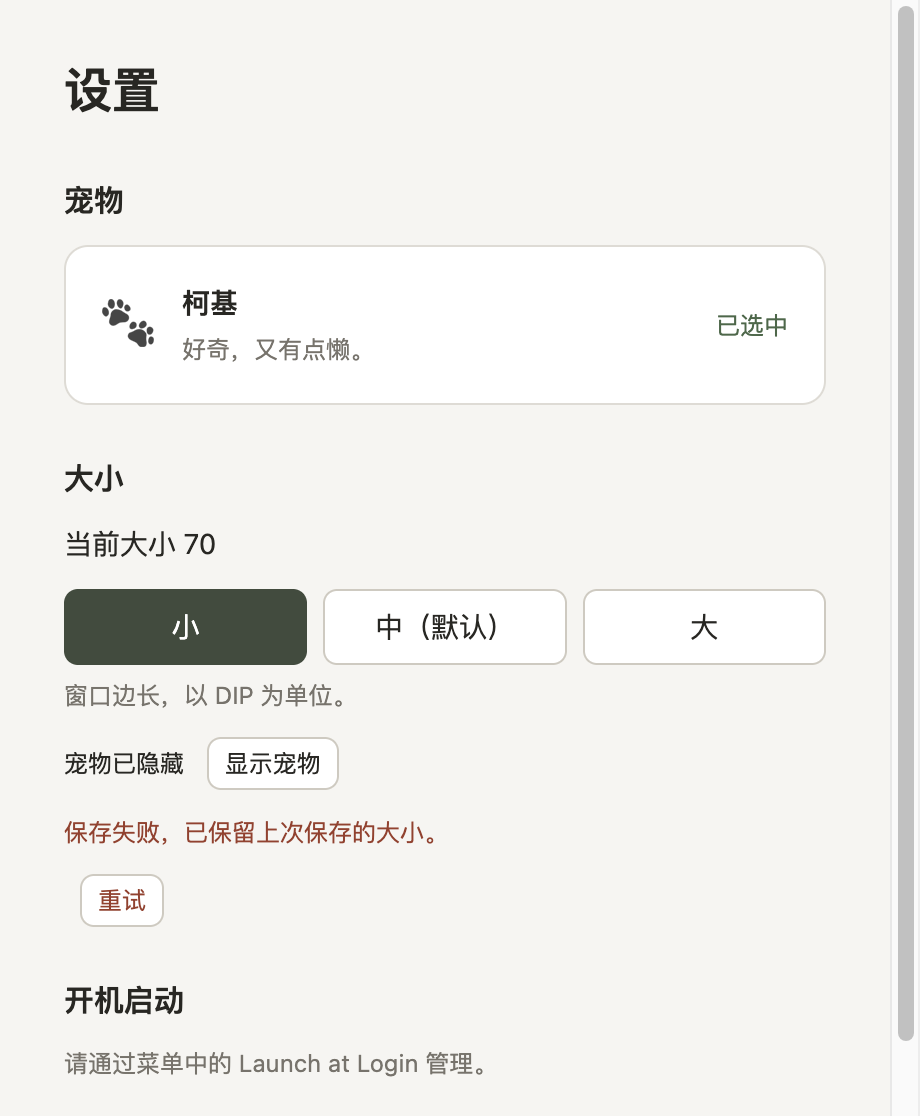
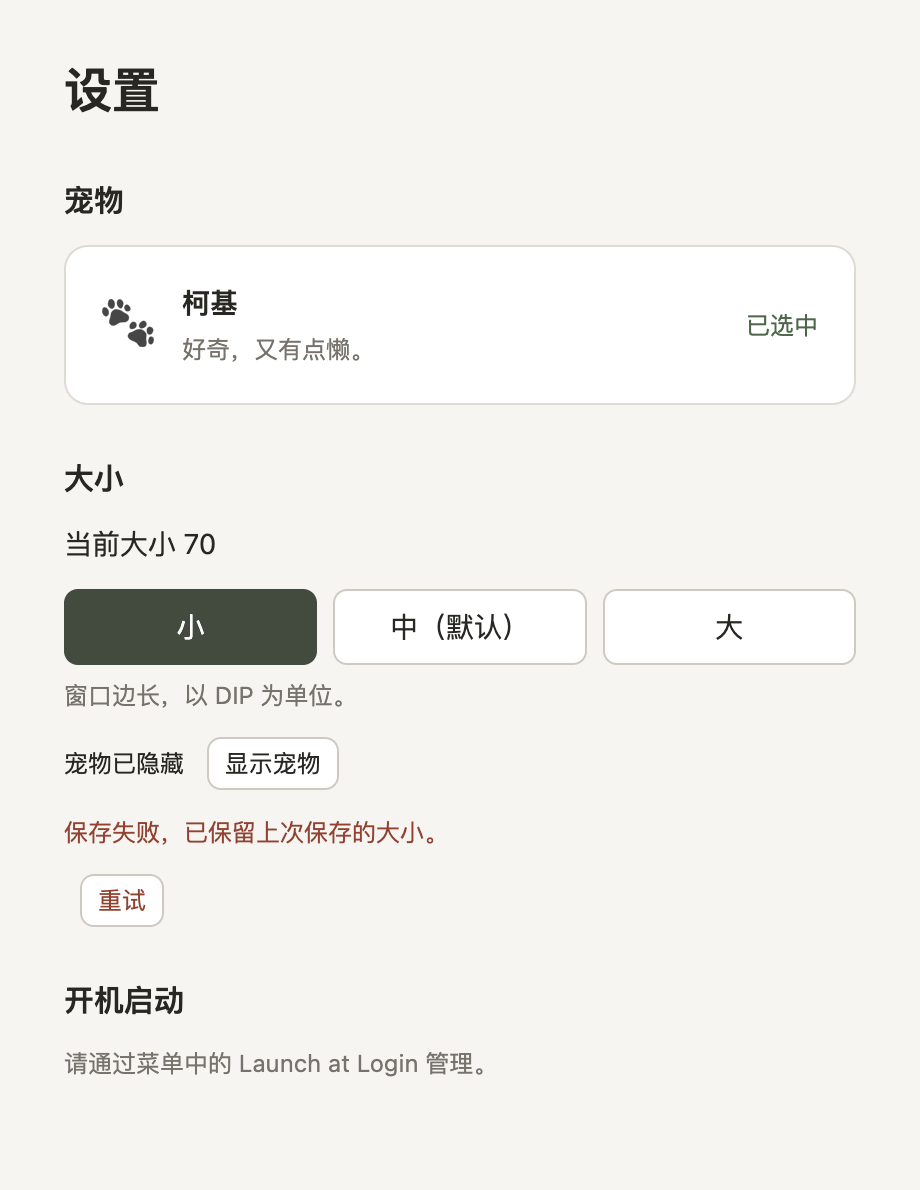
fix: scope settings styles and record app validation evidence

diff --git a/src/settings.css b/src/settings.css
@@ -1,8 +1,8 @@
-html,
-body {
+html[data-page="settings"],
+html[data-page="settings"] body {
   overflow: auto;
 }
-body {
+html[data-page="settings"] body {
   margin: 0;
   background: #f6f5f2;
   color: #282723;
@@ -11,25 +11,25 @@ body {
     BlinkMacSystemFont,
     sans-serif;
 }
-main {
+html[data-page="settings"] main {
   padding: 28px 32px;
 }
-h1 {
+html[data-page="settings"] h1 {
   font-size: 24px;
   margin: 0 0 28px;
 }
-h2 {
+html[data-page="settings"] h2 {
   font-size: 15px;
   margin: 0 0 12px;
 }
-section {
+html[data-page="settings"] section {
   margin-bottom: 26px;
 }
-p {
+html[data-page="settings"] p {
   line-height: 1.5;
   margin: 6px 0 12px;
 }
-.pet-card {
+html[data-page="settings"] .pet-card {
   display: flex;
   align-items: center;
   gap: 14px;
@@ -38,24 +38,24 @@ p {
   border: 1px solid #dedbd4;
   border-radius: 12px;
 }
-.pet-card p {
+html[data-page="settings"] .pet-card p {
   margin: 4px 0 0;
   color: #77736b;
   font-size: 12px;
 }
-.pet-mark {
+html[data-page="settings"] .pet-mark {
   font-size: 26px;
 }
-.selected {
+html[data-page="settings"] .selected {
   margin-left: auto;
   font-size: 12px;
   color: #466847;
 }
-.presets {
+html[data-page="settings"] .presets {
   display: flex;
   gap: 8px;
 }
-button {
+html[data-page="settings"] button {
   font: inherit;
   cursor: pointer;
   border: 1px solid #cfcac0;
@@ -64,35 +64,35 @@ button {
   background: white;
   color: inherit;
 }
-.presets button {
+html[data-page="settings"] .presets button {
   flex: 1;
 }
-button[aria-pressed="true"] {
+html[data-page="settings"] button[aria-pressed="true"] {
   background: #404b3d;
   color: white;
   border-color: #404b3d;
 }
-button:focus-visible {
+html[data-page="settings"] button:focus-visible {
   outline: 3px solid #a2b895;
   outline-offset: 2px;
 }
-.hint {
+html[data-page="settings"] .hint {
   color: #77736b;
   font-size: 12px;
 }
-.hidden-notice,
-.error {
+html[data-page="settings"] .hidden-notice,
+html[data-page="settings"] .error {
   margin-top: 12px;
   font-size: 12px;
 }
-.hidden-notice button,
-.error button {
+html[data-page="settings"] .hidden-notice button,
+html[data-page="settings"] .error button {
   padding: 4px 8px;
   margin-left: 8px;
 }
-.error {
+html[data-page="settings"] .error {
   color: #9c3c29;
 }
-[hidden] {
+html[data-page="settings"] [hidden] {
   display: none !important;
 }

diff --git a/tests/settings.test.ts b/tests/settings.test.ts
@@ -128,7 +128,24 @@ test("settings owns presets, reuses its window and preserves hidden intent and f
       .toContain("保存失败");
     expect((await petState()).bounds.width).toBe(70);
     await mkdir("docs/validation", { recursive: true });
+    expect(
+      await settings
+        .locator("body")
+        .evaluate((element) => getComputedStyle(element).overflowY),
+    ).toBe("auto");
+    const loginNote = settings.getByText(
+      "请通过菜单中的 Launch at Login 管理。",
+      { exact: true },
+    );
+    await loginNote.scrollIntoViewIfNeeded();
+    expect(
+      await loginNote.evaluate((element) => {
+        const bounds = element.getBoundingClientRect();
+        return bounds.top >= 0 && bounds.bottom <= innerHeight;
+      }),
+    ).toBe(true);
     await settings.screenshot({
+      fullPage: true,
       path: `docs/validation/issue-31-${packaged ? "packaged" : "development"}-save-error.png`,
     });
     await rm(file, { recursive: true });
@@ -159,6 +176,16 @@ test("settings owns presets, reuses its window and preserves hidden intent and f
     await settings.getByRole("button", { name: "中（默认）" }).click();
     await expect.poll(async () => (await petState()).bounds.width).toBe(160);
     await mkdir("docs/validation", { recursive: true });
+    expect(
+      await settings
+        .locator("body")
+        .evaluate((element) => getComputedStyle(element).backgroundColor),
+    ).toBe("rgb(246, 245, 242)");
+    expect(
+      await settings
+        .locator("body")
+        .evaluate((element) => getComputedStyle(element).overflowY),
+    ).toBe("auto");
     expect(
       await settings
         .locator("main")

diff --git a/src/settings.ts b/src/settings.ts
@@ -1,4 +1,5 @@
 import type { Settings } from "./shared/contract";
+document.documentElement.dataset.page = "settings";
 document.querySelector<HTMLLinkElement>("#settings-style")!.media = "all";
 document.title = "Mosey 设置";
 document.body.innerHTML = `<main><h1>设置</h1><section aria-labelledby="pet-heading"><h2 id="pet-heading">宠物</h2><div class="pet-card"><span class="pet-mark" aria-hidden="true">🐾</span><div><strong>柯基</strong><p>好奇，又有点懒。</p></div><span class="selected">已选中</span></div></section><section aria-labelledby="size-heading"><h2 id="size-heading">大小</h2><p>当前大小 <output aria-live="polite"></output></p><div class="presets"><button data-size="70">小</button><button data-size="160">中（默认）</button><button data-size="240">大</button></div><p class="hint">窗口边长，以 DIP 为单位。</p><div class="hidden-notice" hidden>宠物已隐藏 <button id="show">显示宠物</button></div><div class="error" hidden><p role="alert">保存失败，已保留上次保存的大小。</p><button id="retry">重试</button></div></section><section><h2>开机启动</h2><p class="hint">请通过菜单中的 Launch at Login 管理。</p></section></main>`;

diff --git a/docs/validation/issue-31-settings.md b/docs/validation/issue-31-settings.md
@@ -1,0 +1,49 @@
+# Issue #31 — 设置窗口、大小预设与配置迁移
+
+验证开始于 2026-10-22，最终验证完成于 2026-10-23（Asia/Shanghai）。切片范围是 #31；没有实现 #32 滑块或 #33 开机启动迁移。设置页的开机启动区域指向现有菜单入口。
+
+## 已实现
+
+- 菜单和托盘的“设置…”复用一个可聚焦窗口；宠物窗口始终单独管理。宠物隐藏时可打开设置，关闭设置保留宠物进程与隐藏意图。
+- 单页依次显示已选中的柯基、当前数值与小／中／大预设、开机启动说明。没有宠物预览、切换、导入、下载或恢复默认按钮。
+- 70／160／240 DIP 预设；160 是默认值。主进程使用数值作为唯一大小值，接受 70–240、10 DIP 步进；数值 110 的加载、无预设选中、绘制、拖动和回到底部也经过整应用验证。
+- 配置升级为 version 2；旧 small／medium／large 映射到 70／160／240，旧缺失大小映射到 160。迁移写入使用既有临时文件替换／有效备份保护；写入失败不覆盖已验证的运行中选择。
+- 保存失败时保留上次成功保存值并显示错误；重试继续尝试失败目标；新选择清除旧失败目标。主进程同步提交请求，设置渲染进程忽略已被后续选择替代的响应。
+- 大小菜单已移除；本体菜单暂停／恢复和实验诊断入口没有改动。开机启动仍从现有菜单管理。
+- 设置 IPC 限定设置窗口主 frame，宠物 IPC 限定宠物窗口主 frame；整应用测试验证两种窗口不能调用对方接口。
+
+## Red → green 证据
+
+1. 新设置验收测试首次开发版运行失败：期待默认 160，实际旧默认 240（16.57s）。截图：[初始失败](issue-31-red-default.png)。断言发生在素材加载完成前，截图只记录该时刻，不作为完整绘制证据。
+2. 迁移测试失败：重启后主配置仍是 version 1、size small，而期待 version 2、size 70（5.81s）。随后增加原子迁移提交；三个旧档位、缺失档位、隐藏意图和备份恢复均通过。
+3. 70 DIP 在 DPR 2 下的旧固定不透明像素门槛失败：实际 7885，小于旧门槛 8000。改为窗口面积的 20%，保留绘制存在性的验收目的，避免固定像素门槛误拒最小尺寸。[失败截图](issue-31-minimum-opacity-failure.png)。
+4. 打包版真实设置窗口验证出 CSS 未生效：期待左边距 32px，实际 0px（3.02s）。Vite 把 media 门控的样式内联成 data: URL，被现有 CSP 拒绝；构建改为外部资源，没有放宽 CSP。[打包样式失败](issue-31-red-packaged-css.png)。
+5. 最终视觉检查又发现生产 CSS 加载顺序覆盖设置页背景／滚动属性；新增断言失败：实际背景为 transparent，期待 rgb(246, 245, 242)（2.82s）。随后用明确的设置页根标记限定样式，增加失败状态下页底说明可滚动到视口内的断言。[级联失败截图](issue-31-red-packaged-cascade.png)。
+
+## 最终验证
+
+- `pnpm check`：通过（TypeScript、ESLint、Prettier）。`git diff --check`：通过。
+- `pnpm package:mac`：通过；Apple Silicon 的真实 `.app` 经临时目录复制启动，包含生产资源与签名。
+- `pnpm test:dev`：8 个文件通过、1 个文件跳过；9 个测试通过、2 个测试跳过，275.49s。开发环境跳过打包专属启动／系统开机启动测试。
+- 最终窗口识别修正后的 `pnpm test:dev tests/settings.test.ts`：2 个测试通过，14.83s。
+- `pnpm test:packaged`：9 个文件、11 个测试全部通过，247.47s；此完整行为回归对应 f6eb3f0（集成提交 e3ac8d6），在最后的 CSS 根选择器修正之前执行。
+- 最终 CSS 修正后的 `pnpm exec vitest run tests/settings.test.ts`：开发和打包两个项目、4 个测试全部通过，23.73s；包括一致背景／样式、失败状态的滚动属性与页底说明可达，以及全部设置生命周期／迁移／失败重试行为。最终开发／打包截图逐一检查，背景和布局一致。
+
+`tests/settings.test.ts` 从应用菜单及真实设置按钮验证默认值、单窗口复用、隐藏访问、显示操作、关闭／重开、重启、三档迁移、缺失大小、非预设数值、备份恢复、保存失败／重试、后续选择与快速连续选择。存储故障由隔离配置目录中的真实文件／目录冲突造成，没有模拟存储实现。
+
+`tests/size.test.ts` 与 `tests/size-autonomy.test.ts` 改为通过真实设置按钮选择预设；覆盖脚底中心、可用区域、绘制、透明处／身体命中、拖动、再次抓住、回到底部、自由活动组合、缩放期间活动持续，以及 DPR 变化。为了把原子缩放与驱动往返期间的正常运动区分开，测试临时观察 Electron 公共 `setBounds` 操作前后的真实窗口边界，结束后恢复方法；没有新增生产测试接口。
+
+原有睡眠、本体菜单、基本应用和自由活动测试显式使用合法的 version 2 / 240 DIP 固定样本，以保留这些测试原来的输入坐标；新默认值与新尺寸由设置和大小专属整应用测试覆盖。
+
+## 视觉证据
+
+- [开发版设置窗口](issue-31-development-settings.png)
+- [开发版保存失败](issue-31-development-save-error.png)
+- [打包版设置窗口](issue-31-packaged-settings.png)
+- [打包版保存失败与页底可达](issue-31-packaged-save-error.png)
+
+## 证据边界与清理
+
+以上均为真实 Electron 应用，不是普通浏览器替代品。Playwright 定向输入、窗口属性读回和 CDP 的 DPR 变化，证明的是应用几何／绘制／生命周期行为；**本次没有执行真实鼠标跨应用穿透、物理显示器缩放切换、前台应用焦点保持或真实注销／登录验收**，不把定向输入或属性读回等同这些系统验收。没有为本切片重新执行已有独立 Dock 实验，也没有把登录系统入口迁入设置页。
+
+每个测试使用隔离用户目录并在 `finally` 关闭自己启动的 Electron 应用、停止自己的 Forge 进程组、删除临时配置／复制应用；失败路径保存截图。桌面上原有的其他任务应用进程保持不动。

diff --git a/README.md b/README.md
@@ -4,7 +4,7 @@
 
 单只柯基的本地 macOS 应用。清醒时点击可见身体，随机歪头、伸爪或翻肚，连点合并且不排队；拖动可打断动作，松手后扑腾、下落并蹲下落地。柯基平时休息，偶尔散步、伸懒腰或自己玩；清醒活动约两分钟后在下一次休息调度躺下睡觉。睡眠第一次点击只动耳，900ms内第二次点击才醒，拖动立即唤醒。保持静音、无文字、无需照料。见 [#5 行为、素材与验证边界](docs/validation/issue-5.md)。
 
-透明窗口默认240×240点，位于主屏可用区域底部；菜单栏 🐾 提供显示／隐藏、小中大三档大小、开机启动和退出，本体右键菜单提供隐藏与退出。透明区域使用当前帧同源alpha切换鼠标穿透；8ms光标轮询仍有首次进入竞态；点击后不保证保持原工作应用的键盘焦点，这已不属于验收要求。真实桌面观察与剩余时序风险分别记录，见 [#3 证据与限制](docs/validation/issue-3.md)。Dock攀爬尚未实现，下述可选验证入口仍是独立实验。
+透明窗口默认160×160 DIP，位于主屏可用区域底部；菜单栏 🐾 提供设置、显示／隐藏、开机启动和退出，本体右键菜单提供隐藏与退出。设置窗口提供小／中（默认）／大预设，分别为70／160／240 DIP，大小和隐藏意图跨重启保留；关闭设置后宠物继续运行。开机启动暂保留菜单入口，后续由 #33 迁入设置；本切片的迁移、失败重试与验证边界见 [#31 设置窗口验证](docs/validation/issue-31-settings.md)。透明区域使用当前帧同源alpha切换鼠标穿透；8ms光标轮询仍有首次进入竞态；点击后不保证保持原工作应用的键盘焦点，这已不属于验收要求。真实桌面观察与剩余时序风险分别记录，见 [#3 证据与限制](docs/validation/issue-3.md)。Dock攀爬尚未实现，下述可选验证入口仍是独立实验。
 
 ## 运行与验证
 
